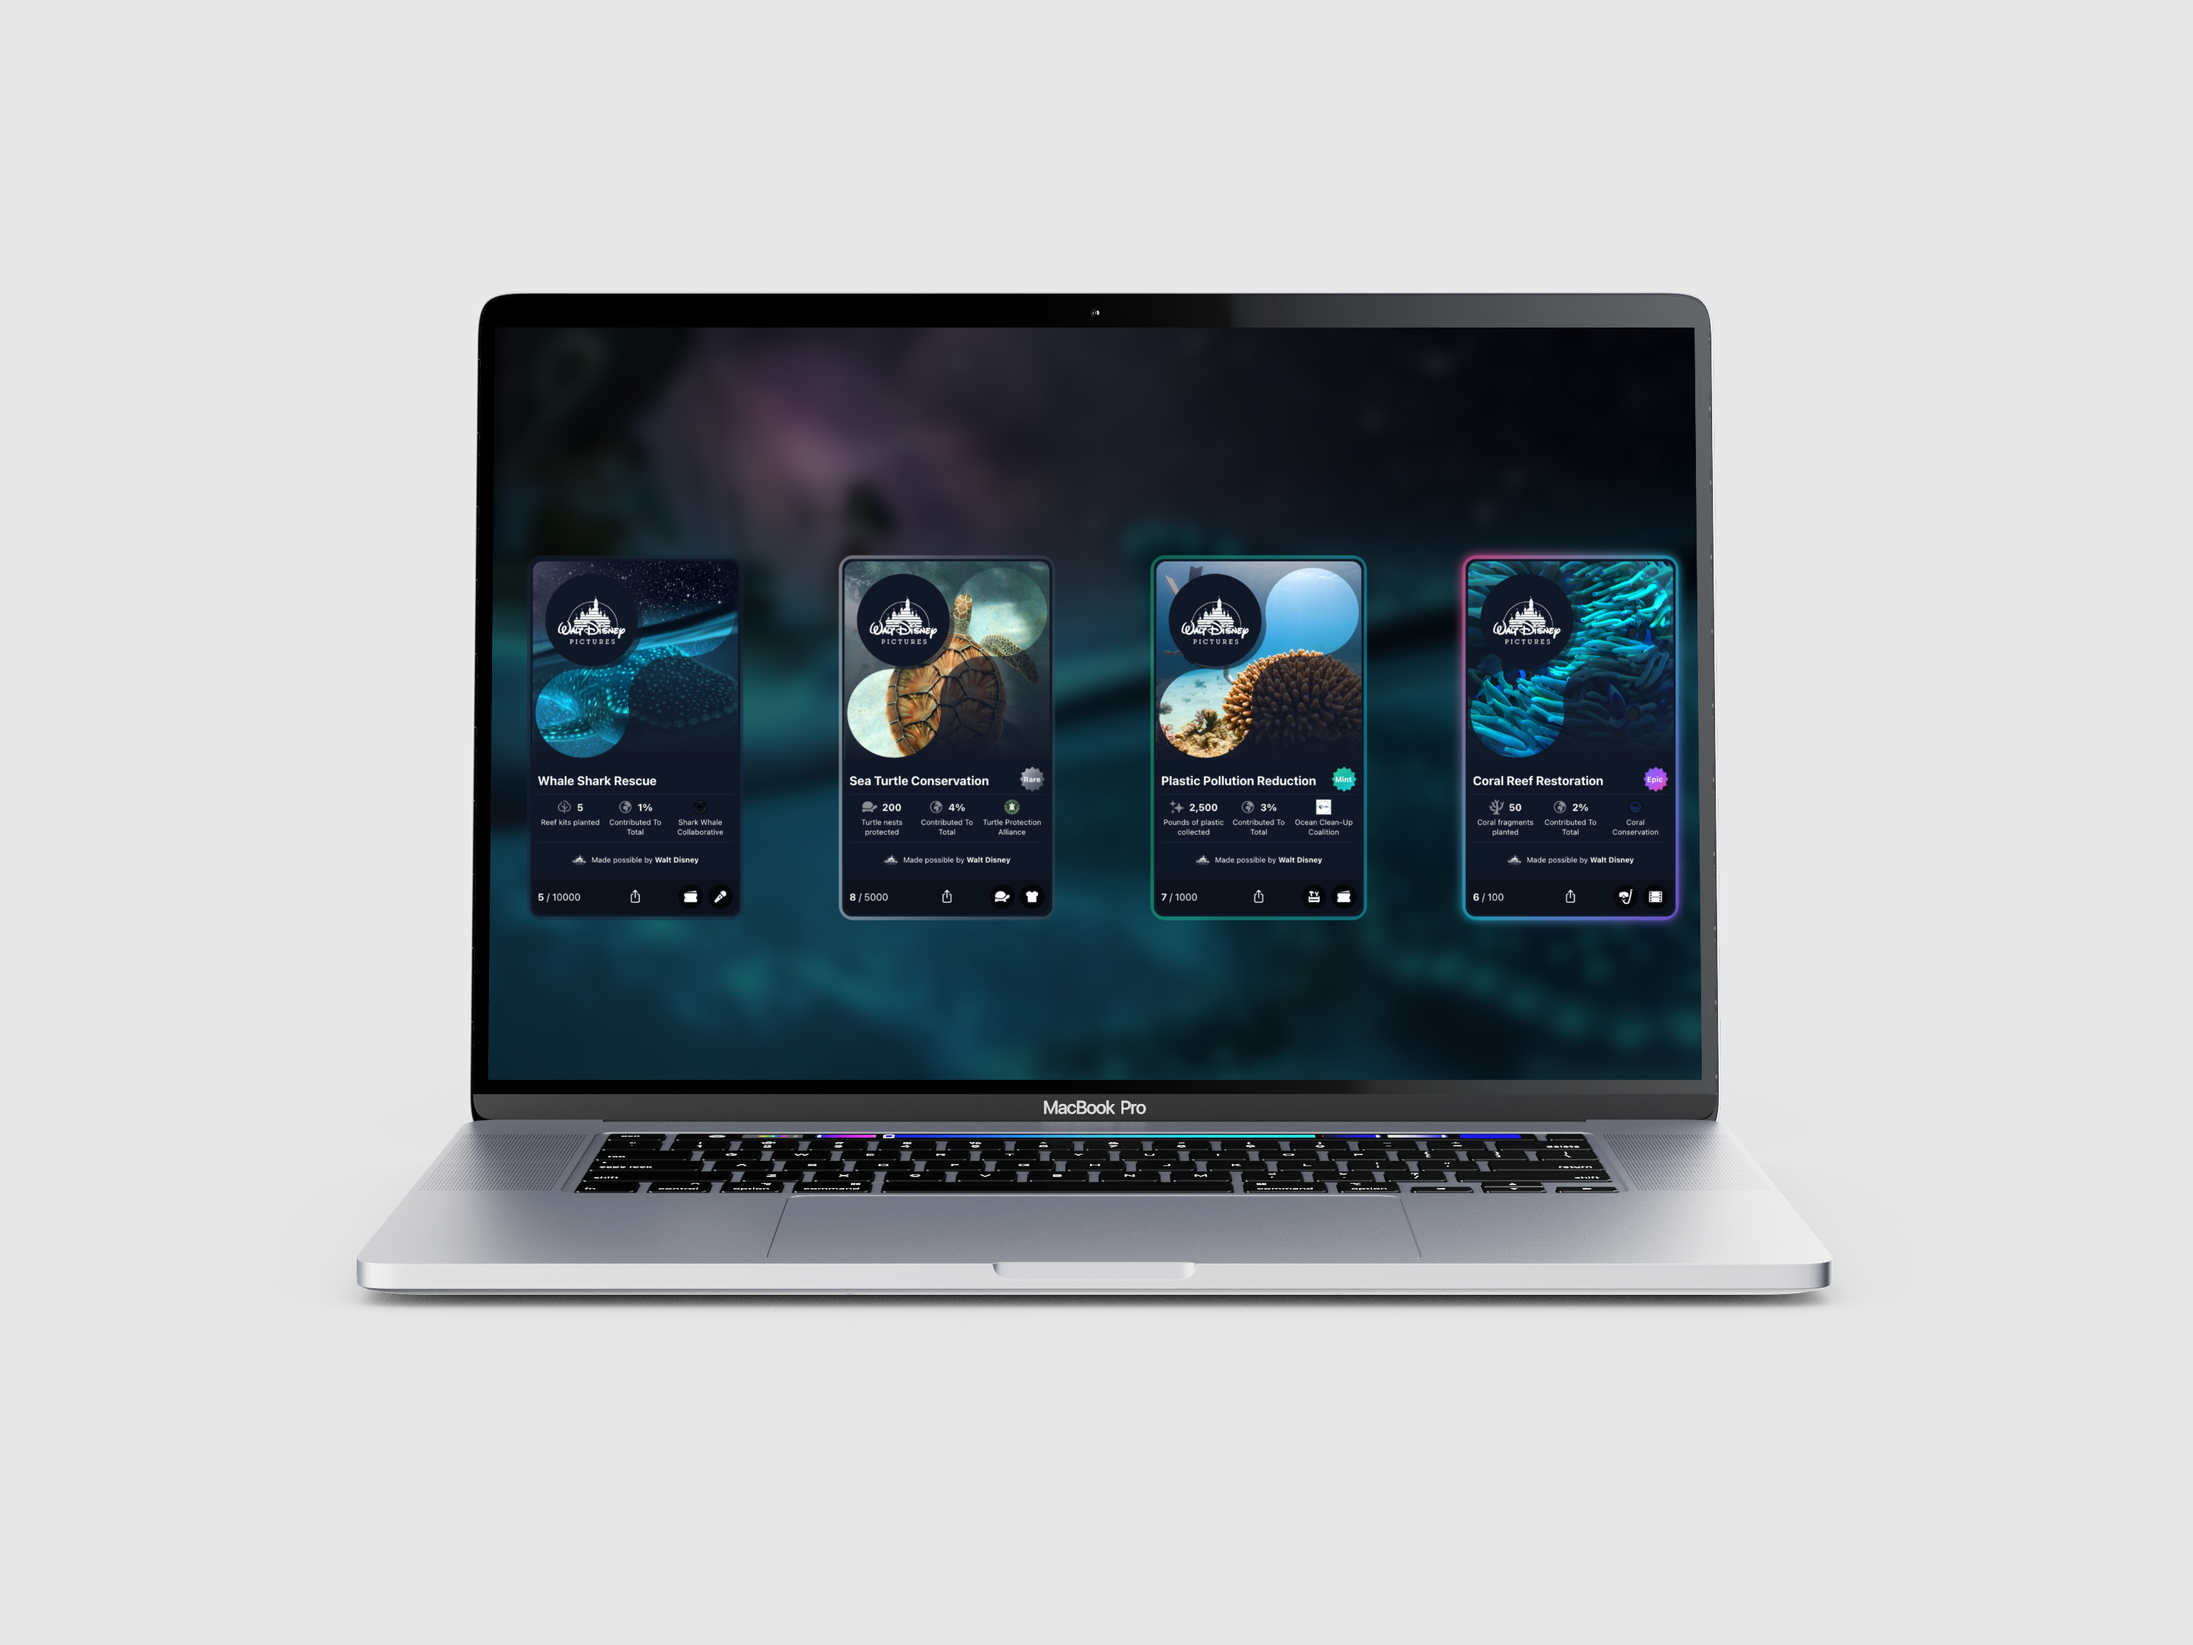
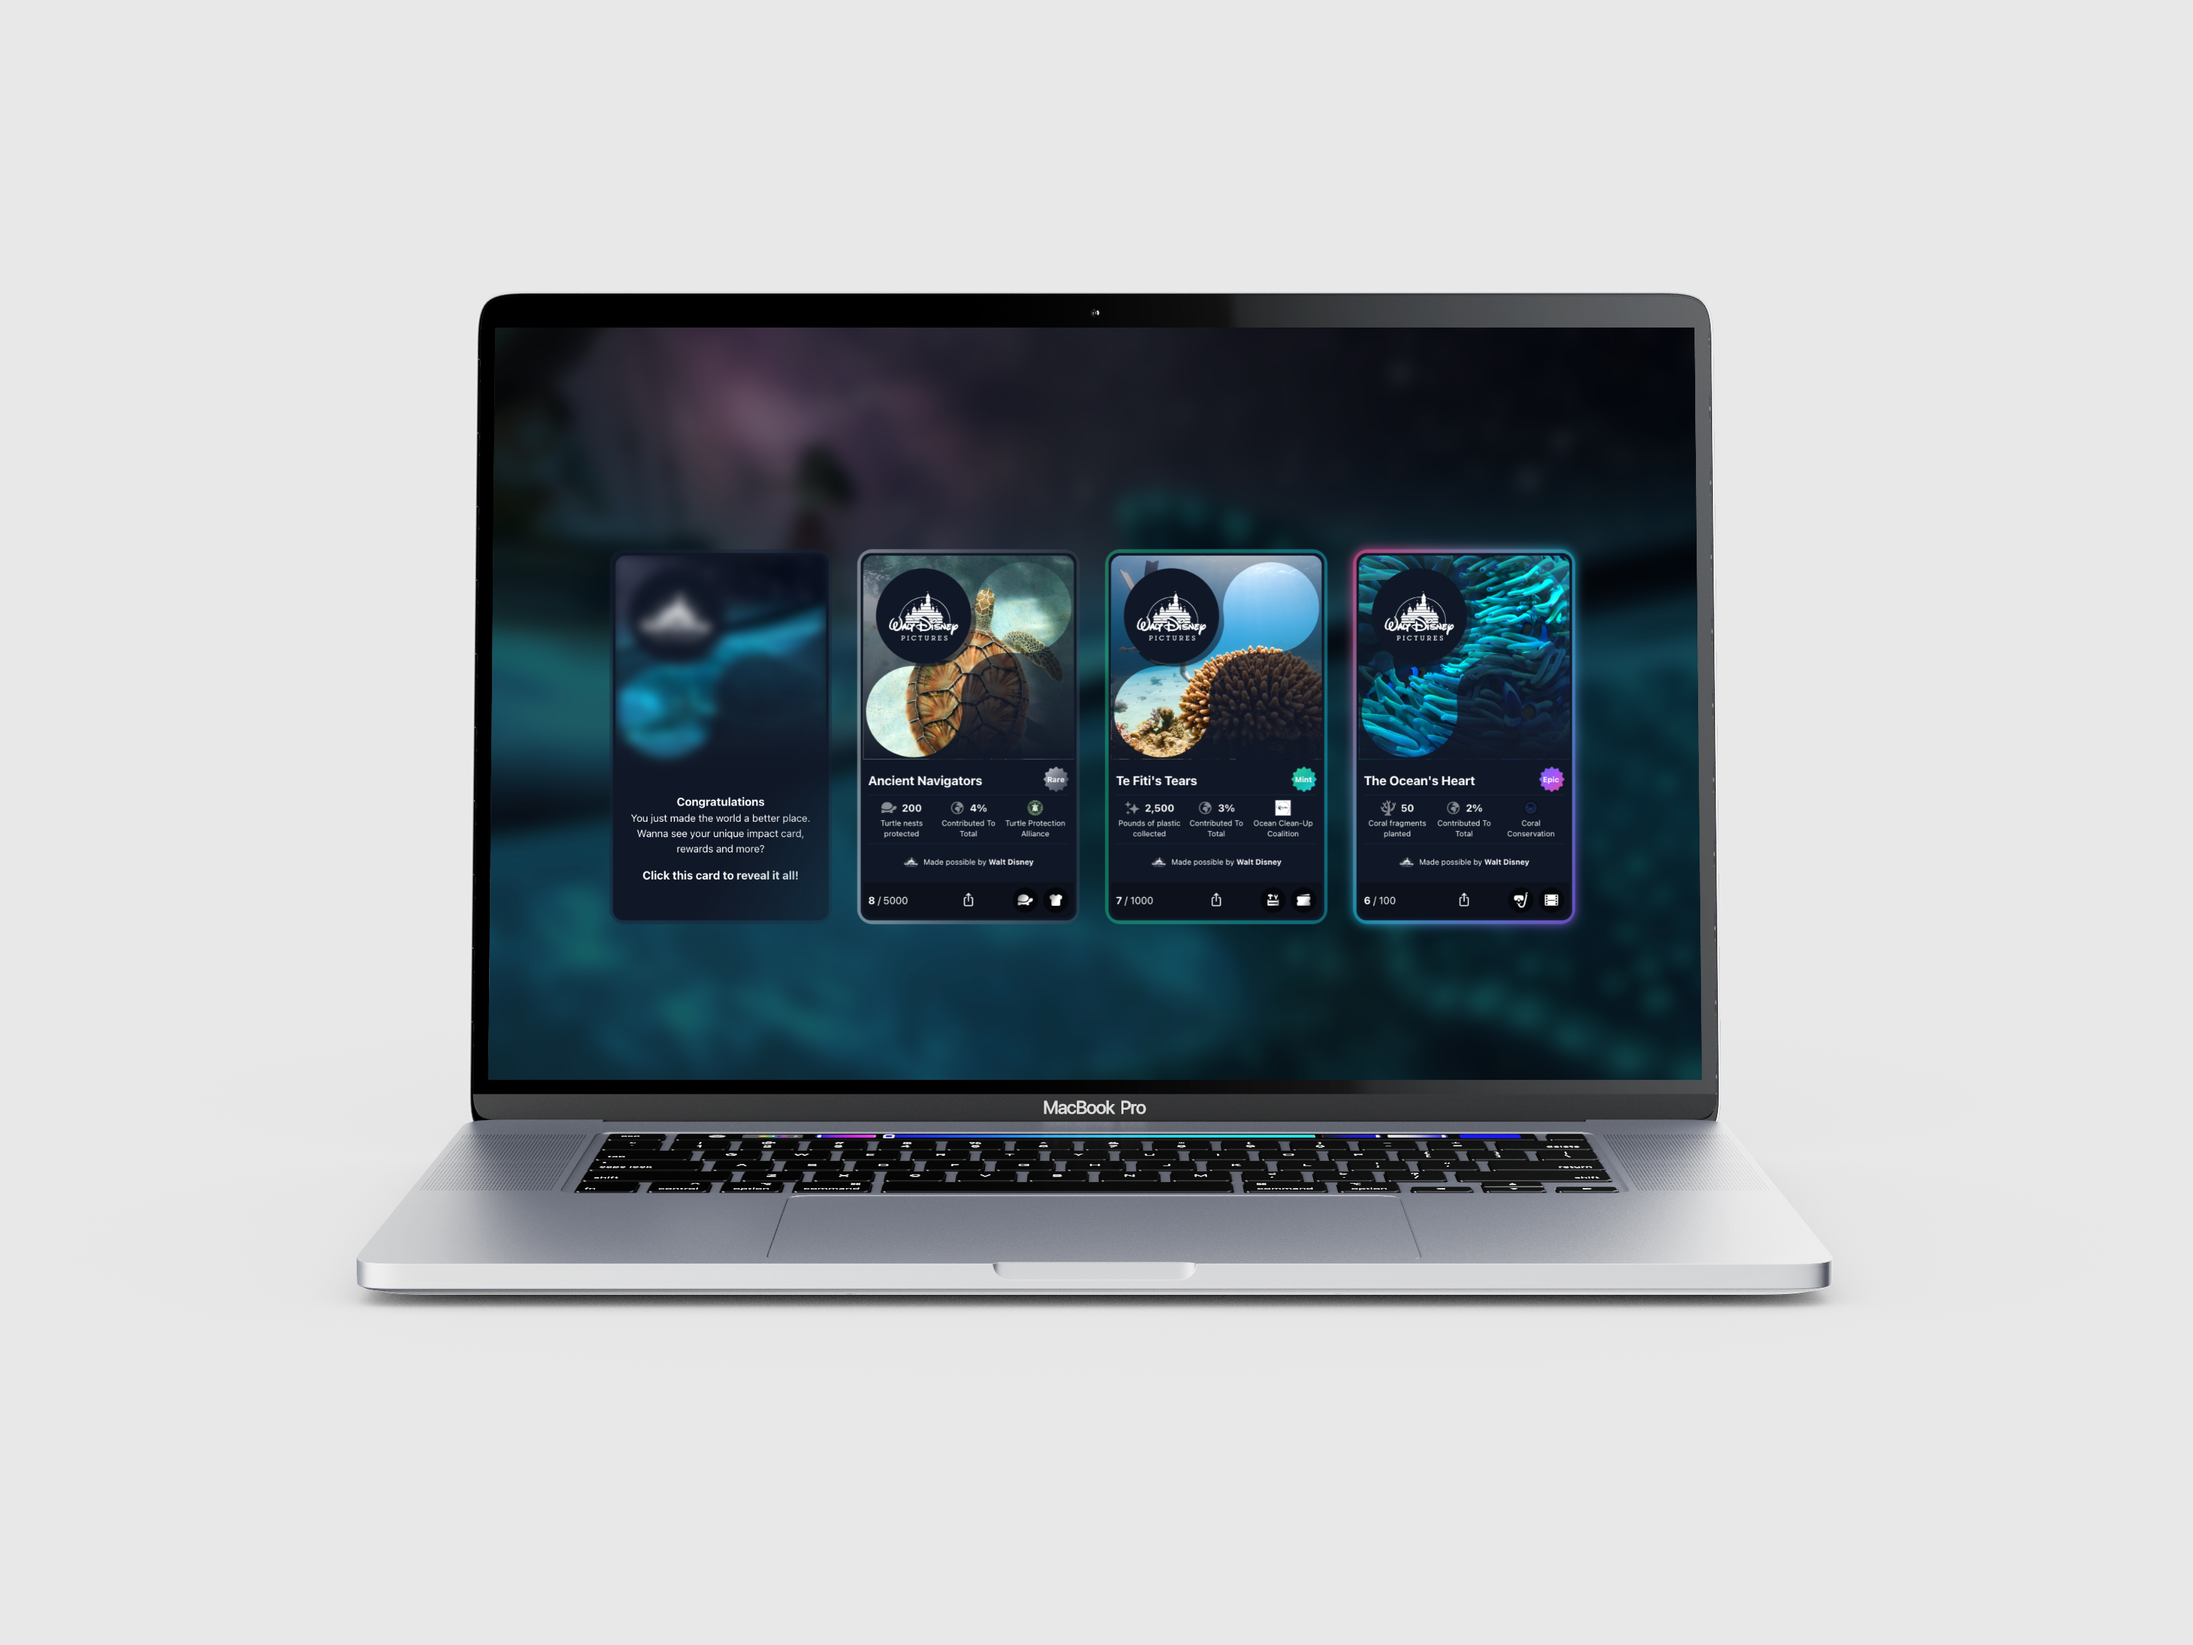
add title mockups

diff --git a/README.md b/README.md
@@ -1,6 +1,6 @@
 # Everclime - Impact Card
 
-![alt text](./src/assets/readme/mockup-macbook-reveal.png)
+![alt text](./src/assets/readme/mockup-macbook-front.png)
 
 **Description:**
 
